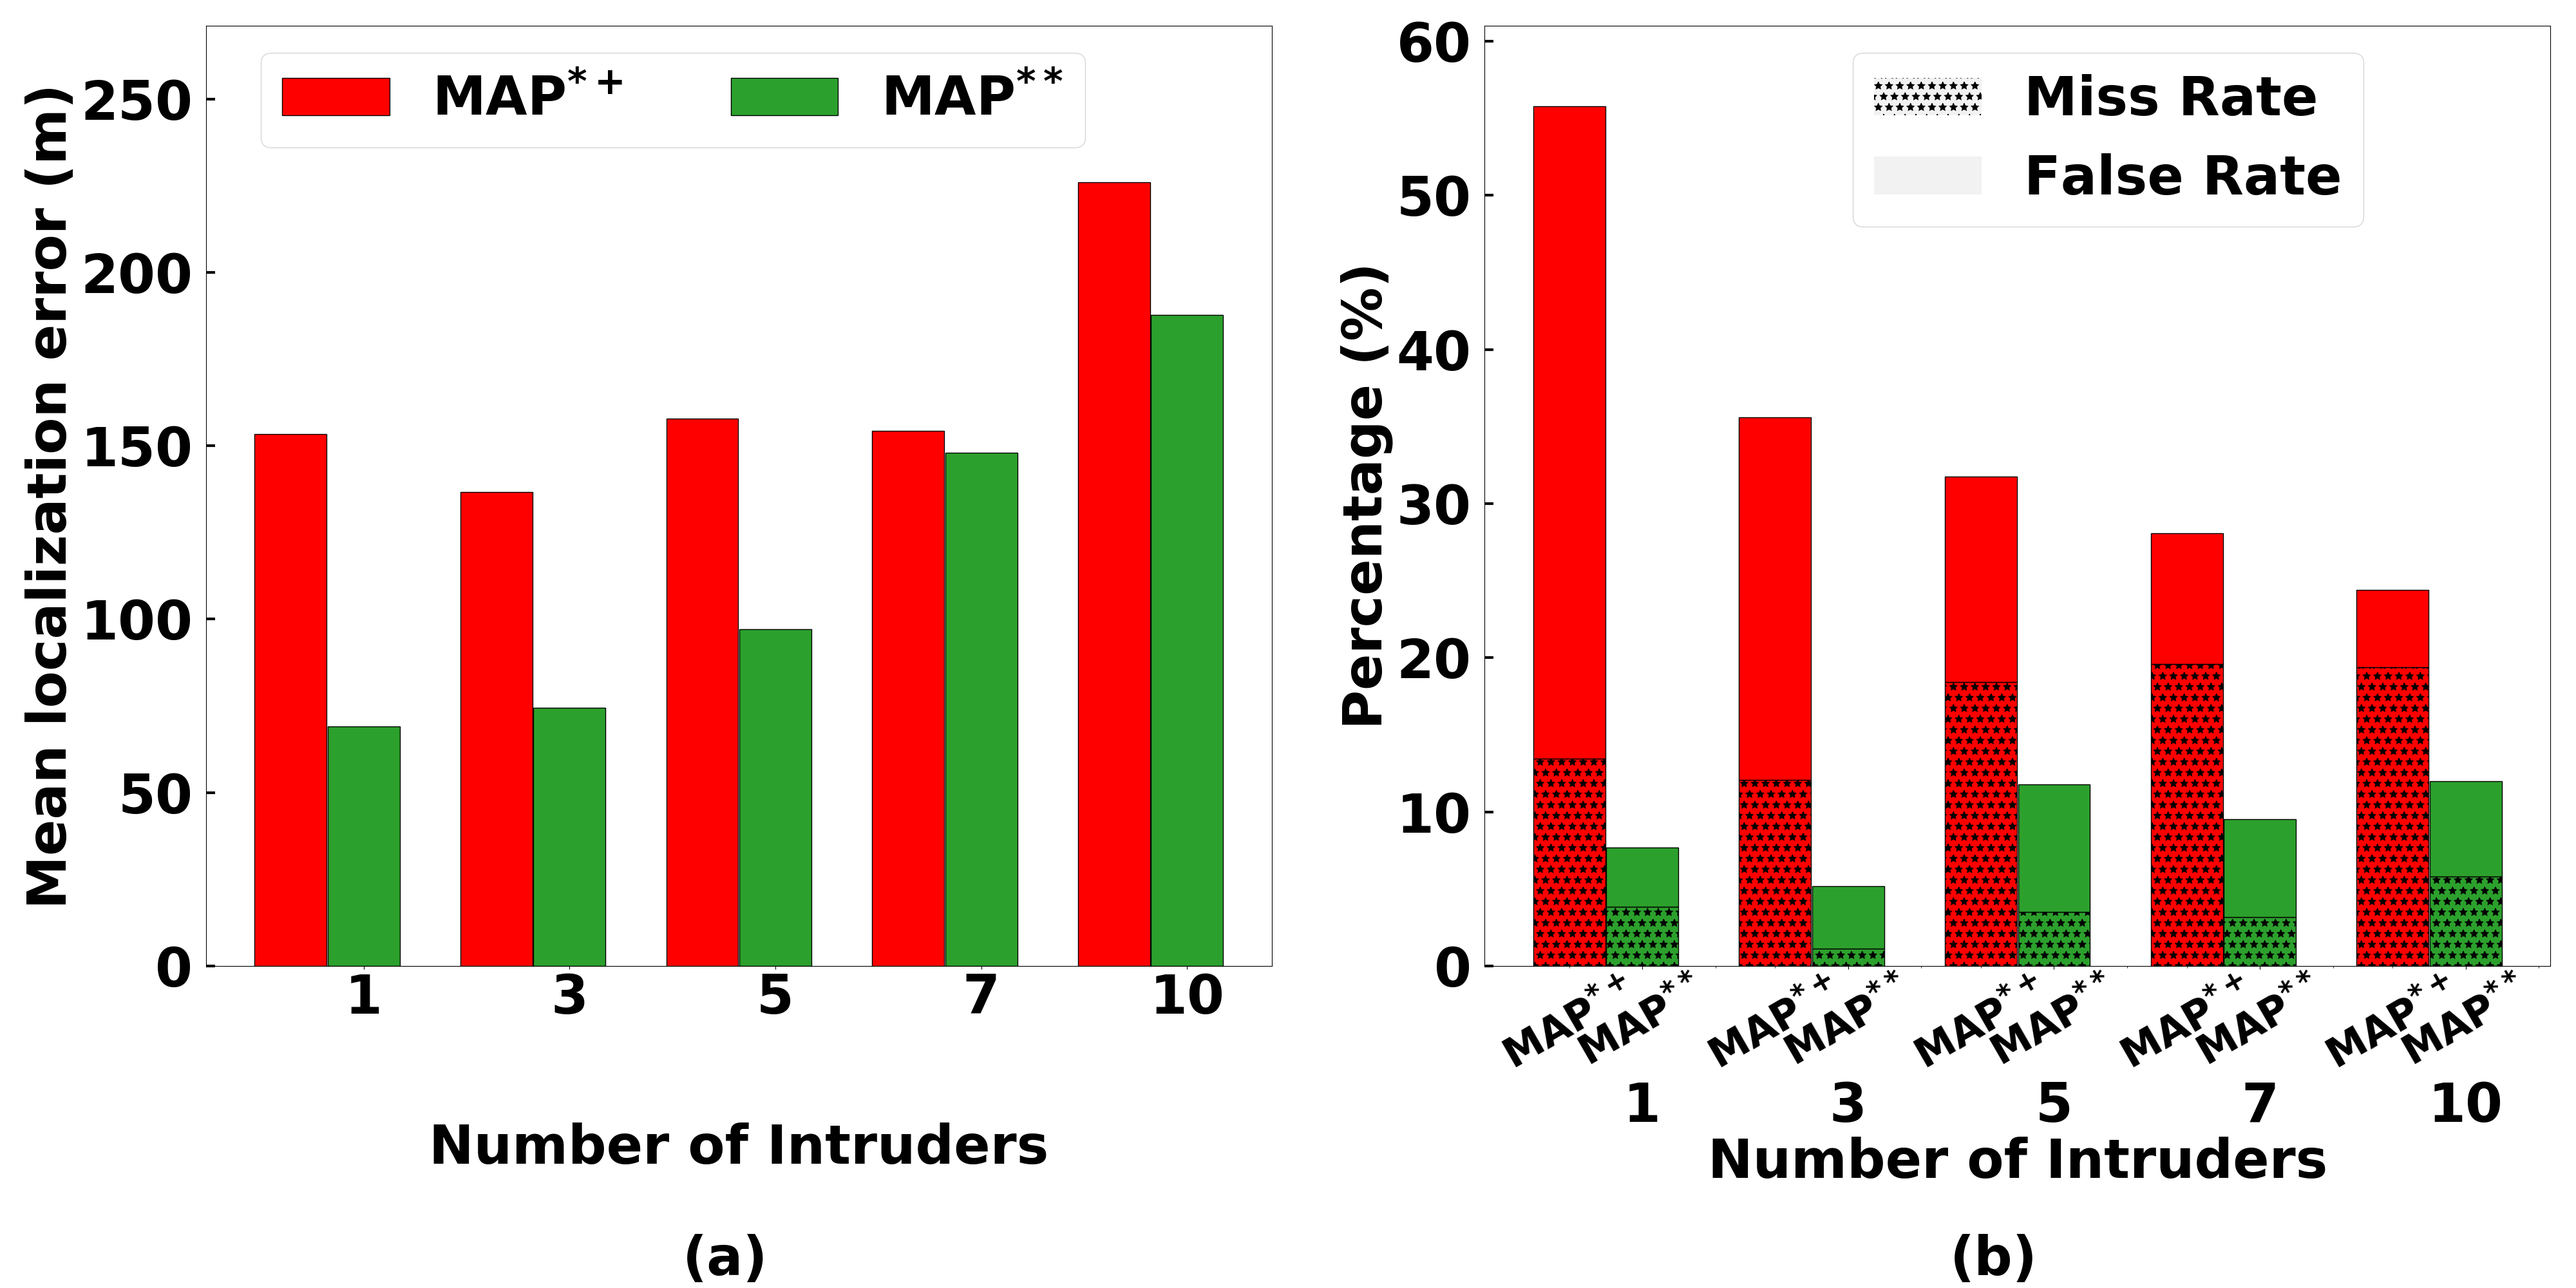
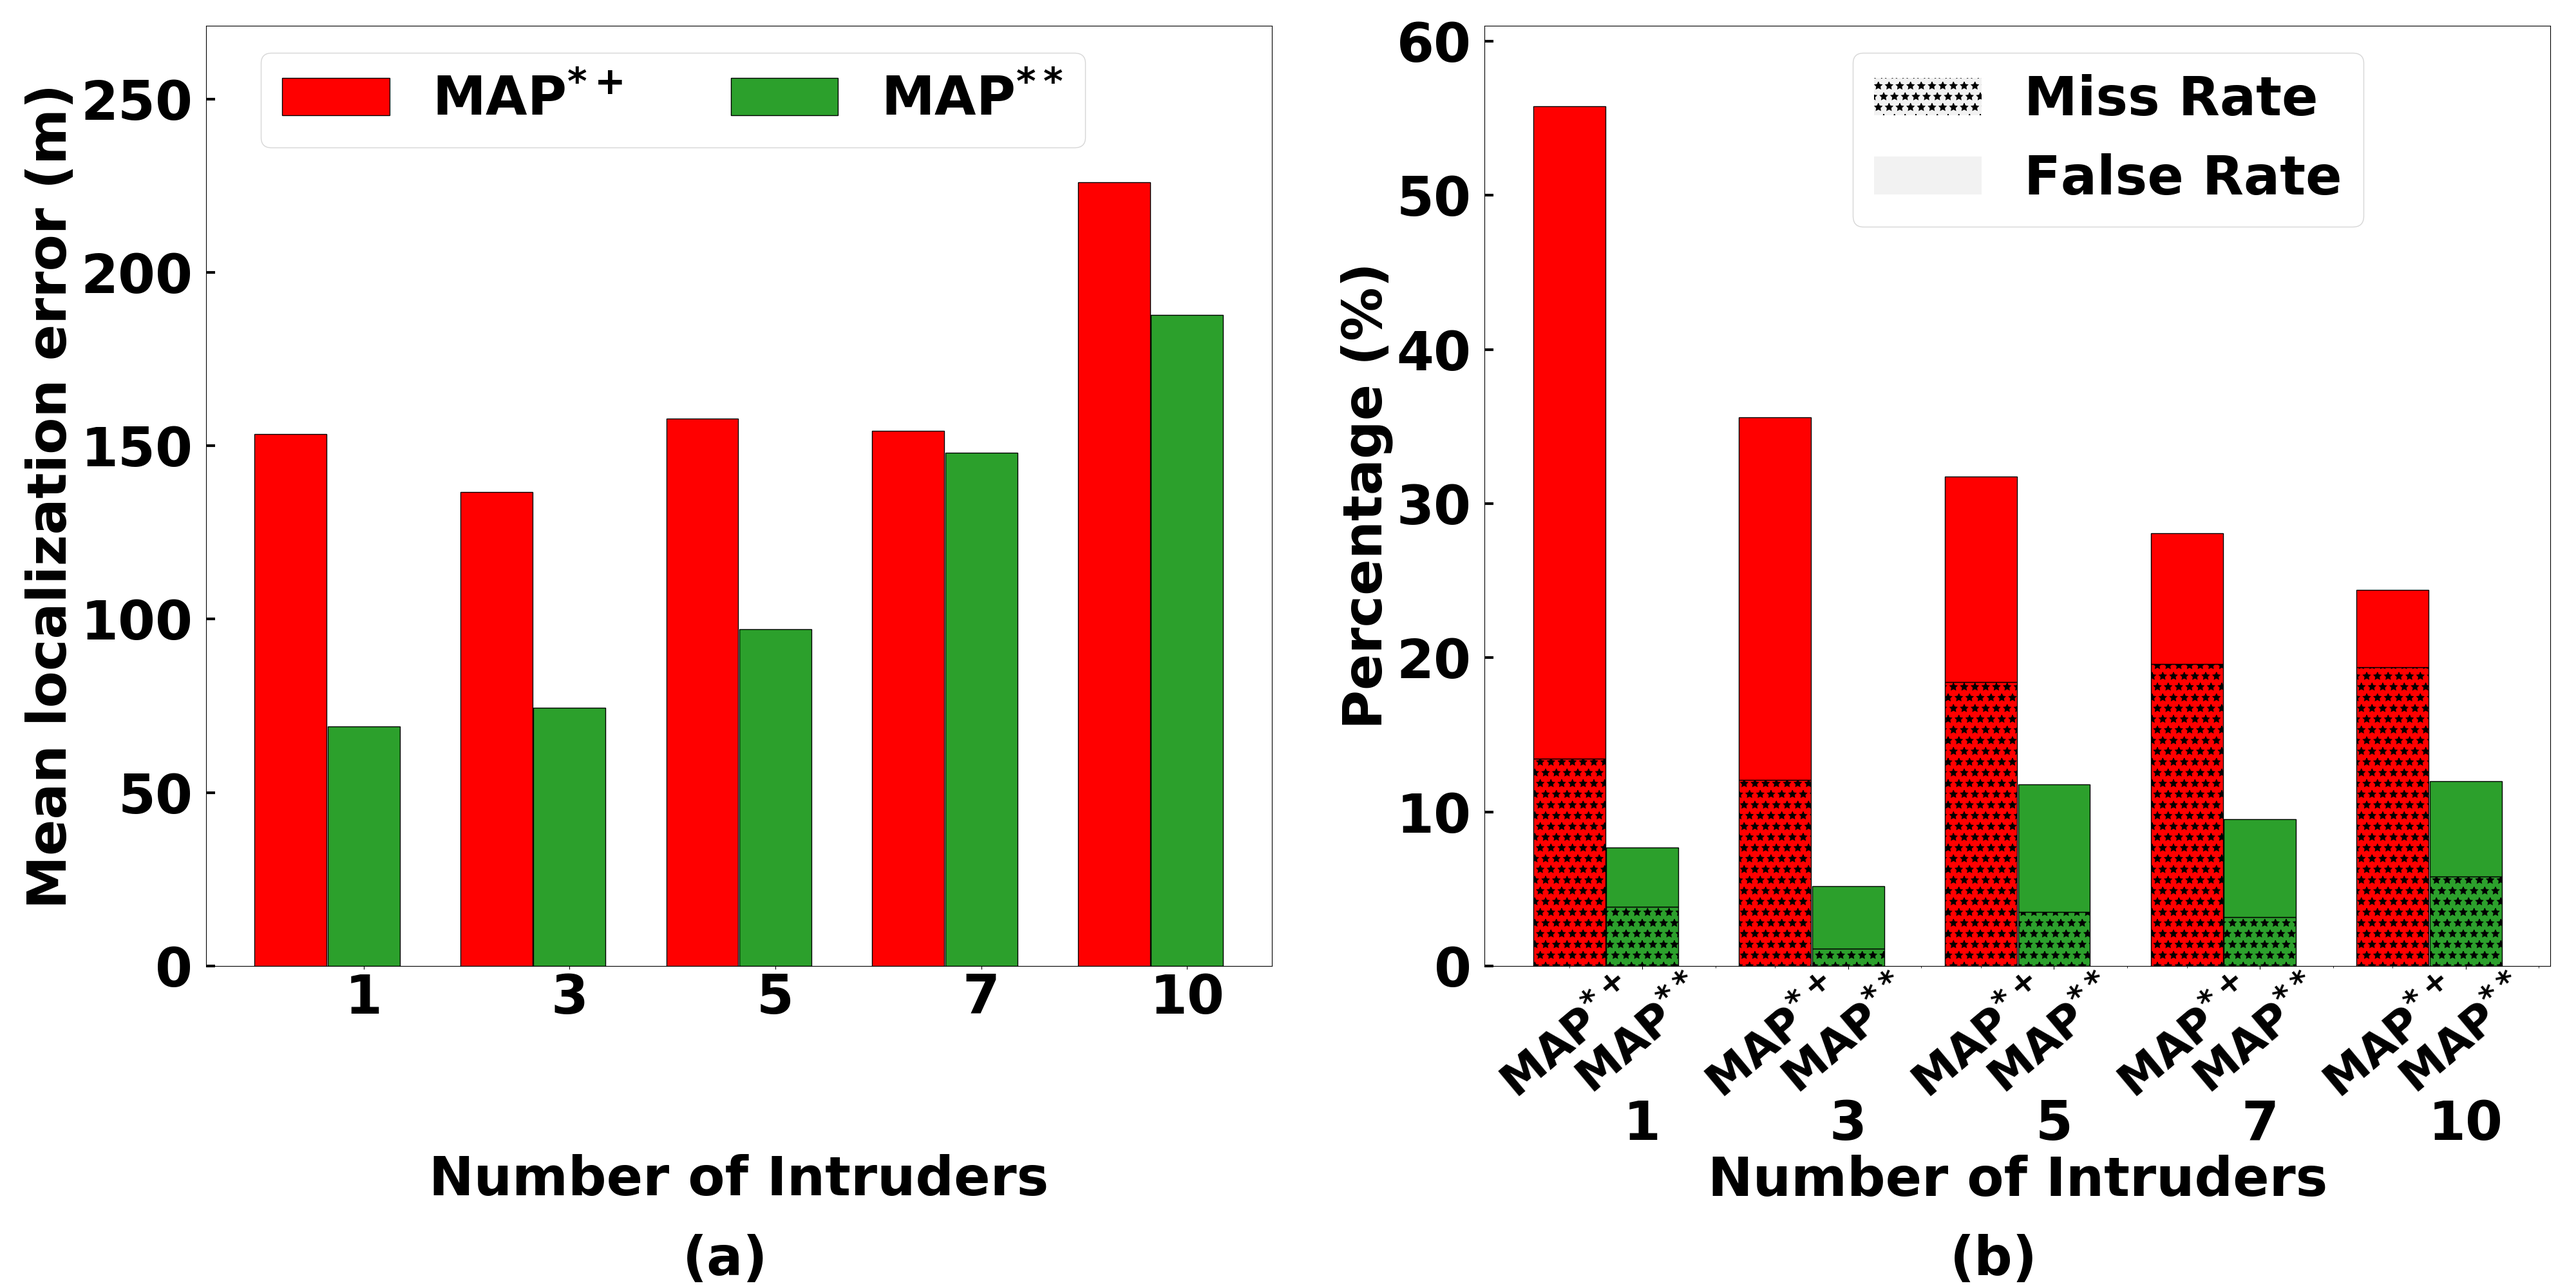
update plots

Changed region(s): [[0.5625, 0.744, 0.9688, 0.93], [0.1562, 0.868, 0.4062, 0.93]]

diff --git a/plot_result.py b/plot_result.py
@@ -227,7 +227,7 @@ class PlotResult:
         ax0.set_ylim([0, 1.2*max(cluster_error)])
         ax0.tick_params(axis='y', direction='in', length=10, width=3, pad=15)
         ax0.set_ylabel('Mean localization error (m)')
-        ax0.set_xlabel('Number of Intruders', labelpad=110)
+        ax0.set_xlabel('Number of Intruders', labelpad=145)
 
         pos1 = ind - width - 0.005
         pos2 = ind
@@ -247,8 +247,8 @@ class PlotResult:
         minor_lab = ['MAP$^*$']*len(ind) + ['SPLOT']*len(ind) + ['CLUST']*len(ind)
         ax1.set_xlabel('Number of Intruders')
         ax1.set_xticks(minor_pos, minor=True)
-        ax1.set_xticklabels(minor_lab, minor=True, fontsize=45, rotation=25, weight='bold')
-        ax1.tick_params(axis='x', which='major', pad=105)
+        ax1.set_xticklabels(minor_lab, minor=True, fontsize=55, rotation=30, weight='bold')
+        ax1.tick_params(axis='x', which='major', pad=145)
         ax1.tick_params(axis='y', direction='in', length=10, width=3, pad=15)
 
         plt.ylim([0, 37])
@@ -405,7 +405,7 @@ class PlotResult:
         ax0.set_ylim([0, 1.2*max(our_error)])
         ax0.tick_params(axis='y', direction='in', length=10, width=3, pad=15)
         ax0.set_ylabel('Mean localization error (m)')
-        ax0.set_xlabel('Percentage of Training Data', labelpad=110)
+        ax0.set_xlabel('Percentage of Training Data', labelpad=145)
 
         pos1 = ind
         ax1.bar(pos1, our_miss, width, edgecolor='black', label='Miss Rate', color=PlotResult.COLOR['M-MAP'], hatch=PlotResult.HATCH['miss'])
@@ -419,8 +419,8 @@ class PlotResult:
         minor_lab = ['MAP$^*$']*len(ind)
         ax1.set_xlabel('Percentage of Training Data')
         ax1.set_xticks(minor_pos, minor=True)
-        ax1.set_xticklabels(minor_lab, minor=True, fontsize=45, rotation=30, weight='bold')
-        ax1.tick_params(axis='x', which='major', pad=125)
+        ax1.set_xticklabels(minor_lab, minor=True, fontsize=55, rotation=30, weight='bold')
+        ax1.tick_params(axis='x', which='major', pad=145)
         ax1.tick_params(axis='y', direction='in', length=10, width=3, pad=15)
         plt.ylim([0, 21])
         plt.ylabel('Percentage (%)')
@@ -495,7 +495,7 @@ class PlotResult:
         ax0.set_ylim([0, 1.2*max(splot_error)])
         ax0.tick_params(axis='y', direction='in', length=10, width=3, pad=15)
         ax0.set_ylabel('Mean localization error (m)')
-        ax0.set_xlabel('Number of Intruders', labelpad=110)
+        ax0.set_xlabel('Number of Intruders', labelpad=145)
 
         pos1 = ind - width - 0.005
         pos2 = ind
@@ -516,8 +516,8 @@ class PlotResult:
         minor_lab = ['MAP$^*$']*len(ind) + ['SPLOT']*len(ind) + ['CLUST']*len(ind)
         ax1.set_xlabel('Number of Intruders')
         ax1.set_xticks(minor_pos, minor=True)
-        ax1.set_xticklabels(minor_lab, minor=True, fontsize=38, rotation=45, weight='bold')
-        ax1.tick_params(axis='x', which='major', pad=135)
+        ax1.set_xticklabels(minor_lab, minor=True, fontsize=45, rotation=45, weight='bold')
+        ax1.tick_params(axis='x', which='major', pad=145)
         ax1.tick_params(axis='y', direction='in', length=10, width=3, pad=15)
         # plt.ylim([0, 55]) full training
         plt.ylim([0, 31])
@@ -623,7 +623,7 @@ class PlotResult:
         ax0.set_ylim([0, 1.2*max(splot_error)])
         ax0.tick_params(axis='y', direction='in', length=10, width=3, pad=15)
         ax0.set_ylabel('Mean localization error (m)')
-        ax0.set_xlabel('Sensor density', labelpad=110)
+        ax0.set_xlabel('Sensor density', labelpad=145)
 
         pos1 = ind - width - 0.005
         pos2 = ind
@@ -644,8 +644,8 @@ class PlotResult:
         minor_lab = ['MAP$^*$']*len(ind) + ['SPLOT']*len(ind) + ['CLUST']*len(ind)
         ax1.set_xlabel('Sensor density')
         ax1.set_xticks(minor_pos, minor=True)
-        ax1.set_xticklabels(minor_lab, minor=True, fontsize=38, rotation=45, weight='bold')
-        ax1.tick_params(axis='x', which='major', pad=135)
+        ax1.set_xticklabels(minor_lab, minor=True, fontsize=45, rotation=45, weight='bold')
+        ax1.tick_params(axis='x', which='major', pad=145)
         ax1.tick_params(axis='y', direction='in', length=10, width=3, pad=15)
         plt.ylim([0, 31])
         plt.ylabel('Percentage (%)')
@@ -717,7 +717,7 @@ class PlotResult:
         ax0.set_ylim([0, 1.2*max(our_error)])
         ax0.tick_params(axis='y', direction='in', length=10, width=3, pad=15)
         ax0.set_ylabel('Mean localization error (m)')
-        ax0.set_xlabel('Number of Intruders', labelpad=110)
+        ax0.set_xlabel('Number of Intruders', labelpad=145)
 
         pos1 = ind - width - 0.005
         pos2 = ind
@@ -735,8 +735,8 @@ class PlotResult:
         minor_lab = ['MAP$^{*+}$']*len(ind) + ['MAP$^{**}$']*len(ind)
         ax1.set_xlabel('Number of Intruders')
         ax1.set_xticks(minor_pos, minor=True)
-        ax1.set_xticklabels(minor_lab, minor=True, fontsize=45, rotation=30, weight='bold')
-        ax1.tick_params(axis='x', which='major', pad=125)
+        ax1.set_xticklabels(minor_lab, minor=True, fontsize=50, rotation=40, weight='bold')
+        ax1.tick_params(axis='x', which='major', pad=145)
         ax1.tick_params(axis='y', direction='in', length=10, width=3, pad=15)
         plt.ylim([0, 61])
         plt.ylabel('Percentage (%)')
@@ -914,8 +914,8 @@ if __name__ == '__main__':
     random.seed(0)
     # indoor_full_training()
     # indoor_interpolation()
-    # outdoor_interpolation()
+    outdoor_interpolation()
     # splat_vary_traindata()
     # splat_vary_numintru()
     # splat_vary_sendensity()
-    splat_vary_numauthorized()
+    # splat_vary_numauthorized()
